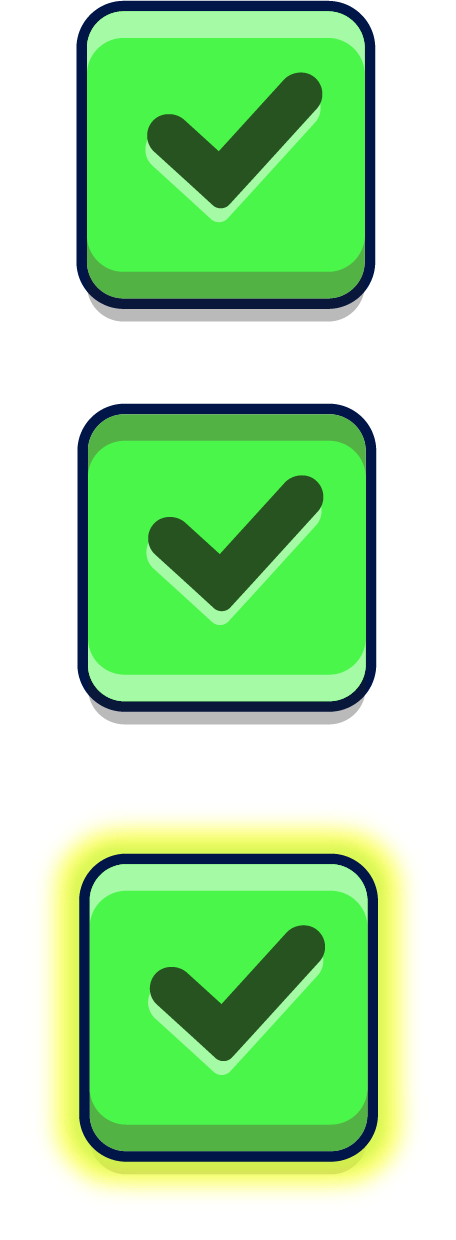
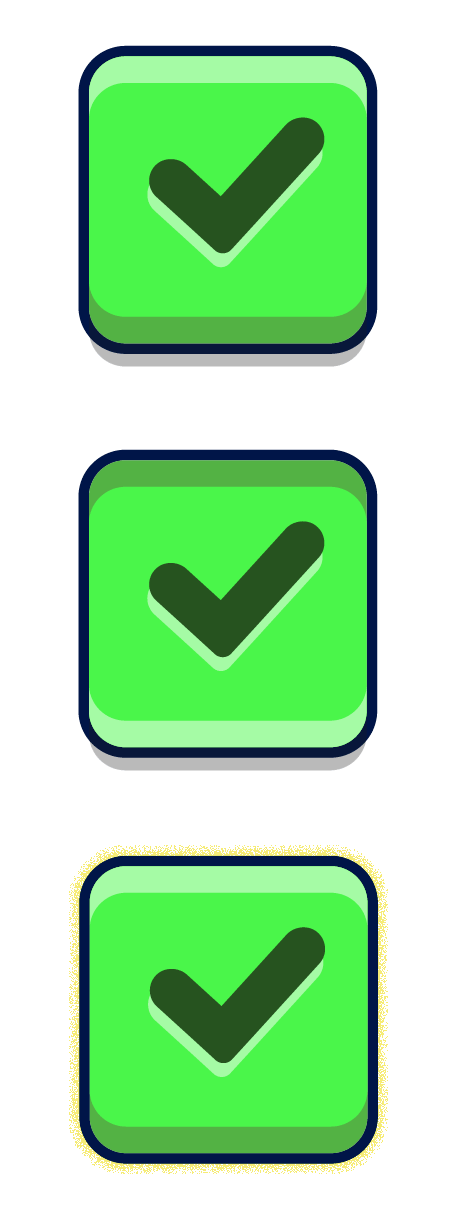
upadte: add game succful and fail

diff --git a/src/games/game_26/scenes/GameScene.js b/src/games/game_26/scenes/GameScene.js
@@ -5,9 +5,9 @@ import ExitButton from '../components/ExitProgressGameButton'
 import {
     createEggTwistingMachineAnimation
 } from '../assets/animations/EggTwistingMachineAnimation';
-// import {
-//     createGameStatusAnimations
-// } from '../assets/animations/GameStatusAnimation';
+import {
+    createStarAnimation
+} from '../assets/animations/StarAnimation';
 import GameSprite from '../components/GameSprite';
 import GameManager from '../components/GameManager';
 import AnswerArea from "../components/AnswerArea";
@@ -46,7 +46,7 @@ export default class GameScene extends BasicScene {
 
 
         createEggTwistingMachineAnimation(this.anims);
-
+        createStarAnimation(this.anims);
         this.paintGameScene(this);
 
 
@@ -65,7 +65,7 @@ export default class GameScene extends BasicScene {
 
         if (errorQuestionIndex == null) {
             this.questionIndex = GameManager.getInstance().generateGameQuestionIndex();
-            
+
         } else {
 
             if (JSON.parse(localStorage.getItem('gameChance'))) {
@@ -75,7 +75,7 @@ export default class GameScene extends BasicScene {
         }
 
         question = JSON.parse(localStorage.getItem(this.questionIndex));
-        console.log("当前抽取的题目:%o",question);
+        console.log("当前抽取的题目:%o", question);
         // question = JSON.parse(localStorage.getItem(8));
         this.currentQuestionAnswer = question.answer;
 
@@ -92,7 +92,7 @@ export default class GameScene extends BasicScene {
         let eggTwistingMachineAnimation = new GameSprite(this, 960, 540, 'eggTwistingMachineTexture');
         eggTwistingMachineAnimation.play('eggTwistingMachineAnimation');
 
-        let answerArea = new AnswerArea(this,this.generateQuestion());
+        let answerArea = new AnswerArea(this, this.generateQuestion());
 
         let exitButton = new ExitButton(this, 120, 135);
 
@@ -100,59 +100,41 @@ export default class GameScene extends BasicScene {
         this.gameLayer.add([exitButton]);
     }
 
-    paintGameSuccess(doll) {
+    paintGameSuccess() {
 
         GameManager.getInstance().updateGameQuestionNumberList(this.questionIndex);
         GameManager.getInstance().updateGamePlayTotal((value) => {
             this.time.addEvent({
-                delay: 2000,
+                delay: 1000,
                 callback: () => this.scene.start(value ? 'Game' : 'End')
             })
         });
 
-        let targetPosition = JSON.parse(localStorage.getItem('targetPosition'));
-        this.gameLayer.add(new GameSprite(this, targetPosition.x + doll.x, targetPosition.y + doll.y - 500, "gameSuccessAnimation"));
-        this.sound.add('starEffectSound').play();
+
+        // this.sound.add('starEffectSound').play();
     }
 
 
-    paintGameFailed(clipBox) {
+    paintGameFailed() {
 
-        let doll = clipBox.list[1];
-
-
-        let errorSprite = null;
         let _isFirstError = null;
-        let targetPosition = JSON.parse(localStorage.getItem('targetPosition'));
-
 
         GameManager.getInstance().setGameQuestionError(this.questionIndex, (isFirstError, value) => {
 
             _isFirstError = isFirstError;
             console.log({ isLastQuestion: value })
             this.time.addEvent({
-                delay: isFirstError ? 2000 : 5000,
+                delay: isFirstError ? 1000 : 2000,
                 callback: () => value ? this.scene.start('End') : this.scene.restart('Game')
             });
         }
         );
 
-        errorSprite = new GameSprite(this, targetPosition.x + doll.x, targetPosition.y + doll.y - 500, "gameFailAnimation")
+        console.log({ _isFirstError });
 
-        errorSprite.on('animationcomplete', () => {
-            if (!_isFirstError) {
-                this.time.addEvent({
-                    delay: 500,
-                    callback: () => {
+        // this.sound.add('electricShockEffectSound').play();
 
-                    }
-                })
-            }
-        })
 
-        this.sound.add('electricShockEffectSound').play();
-
-        this.gameLayer.add(errorSprite);
     }
 
 

diff --git a/src/games/game_26/components/AnswerPanel.js b/src/games/game_26/components/AnswerPanel.js
@@ -1,24 +1,26 @@
 import Phaser from 'phaser'
 import ConfirmButton from './ConfirmButton';
+import GameSprite from './GameSprite';
 import ResetButton from './ResetButton';
+
 
 export default class AnswerPanel extends Phaser.GameObjects.Container {
 
-    constructor(scene, x, y) {
+    constructor(scene, x, y, answer) {
 
         super(scene, x, y);
         scene.add.existing(this);
-
+        this._text = '';
         this.texture = scene.add.sprite(0, 0, 'backgroundLabelAnswer').setScale(0.5);
 
-        // console.log("texture: %o", this.texture.displayWidth);
-        this.confirmButton = new ConfirmButton(scene, 800, 15);
-        this.resetButton = new ResetButton(scene, 650, 0,'Game');
+
+
+        this.resetButton = new ResetButton(scene, 650, 0, 'Game');
         this.labelText = this.scene.make.text({
-            x: -this.texture.displayWidth/2,
+            x: -this.texture.displayWidth / 2 + 20,
             y: -10,
-            text: '大手大脚啊升级换代看撒娇卡上',
-            style:  {
+            text: this.text,
+            style: {
                 fontSize: '55px',
                 fontFamily: 'Arial',
                 // backgroundColor:'#fb022b',
@@ -30,13 +32,76 @@ export default class AnswerPanel extends Phaser.GameObjects.Container {
                     top: 20,
                     bottom: 10,
                 }
-    
+
             }
-        }).setOrigin(0,0.5);
+        }).setOrigin(0, 0.5).setName('labelText');
+        this.confirmButton = new ConfirmButton(scene, 800, 0, answer, this.labelText);
 
         this.setSize(this.texture.width, this.texture.height);
 
+        this.addOnConfirmButtonClickedEventListener(scene, this.confirmButton);
+
+
+
         this.add([this.texture, this.labelText, this.confirmButton, this.resetButton]);
 
+        // this.showStarAnimation(scene);
+
     }
+
+
+    setLabelText(value) {
+        this._text += value;
+        this.labelText.setText(this._text);
+    }
+
+    getLabelText() {
+        return this.labelText.text;
+    }
+
+    setConfirmButtonLight() {
+        this.confirmButton.showLight();
+    }
+
+    showStarAnimation(scene) {
+
+        let firstStarAnimation = new GameSprite(scene, this.labelText.x, this.labelText.y - this.texture.displayHeight / 2, 'starTexture');
+        firstStarAnimation.setScale(0.5);
+        firstStarAnimation.play('starAnimation');
+
+
+        let secondStarAnimation = new GameSprite(scene, this.labelText.x + this.labelText.displayWidth, this.labelText.y + this.texture.displayHeight / 2, 'starTexture');
+        secondStarAnimation.setScale(0.3);
+        secondStarAnimation.play('starAnimation');
+
+
+        this.add([firstStarAnimation, secondStarAnimation]);
+    }
+
+    showErrorAnimation(scene) {
+        let errorSprite =
+            new GameSprite(scene, this.labelText.x + this.labelText.displayWidth / 2, this.labelText.y, 'uiError');
+        errorSprite.setScale(0.8);
+
+        this.add(errorSprite);
+    }
+
+    addOnConfirmButtonClickedEventListener(scene, gameObject) {
+        gameObject.on('OnConfirmedEvent', (result) => {
+
+            if (result) {
+                scene.paintGameSuccess();
+                this.showStarAnimation(scene);
+
+            } else {
+                scene.paintGameFailed();
+                this.showErrorAnimation(scene);
+            }
+
+
+
+        })
+    }
+
+
 }

diff --git a/src/games/game_26/scenes/PreloaderScene.js b/src/games/game_26/scenes/PreloaderScene.js
@@ -48,6 +48,8 @@ export default class PreloaderScene extends BasicScene {
             'backgroundGamePlay': require('../assets/images/background_game_play_scene.png'),
             'gameEndDialogBox': require('../assets/images/background_game_end_dialog.png'),
 
+            'uiError':require('../assets/images/ui_error.png'),
+
             'questionPicture0': require('../assets/images/questionPictures/0.png'),
             'questionPicture1': require('../assets/images/questionPictures/1.png'),
             'questionPicture2': require('../assets/images/questionPictures/2.png'),
@@ -73,6 +75,9 @@ export default class PreloaderScene extends BasicScene {
         const atlasFiles = {
             'eggTwistingMachineTexture': {
                 img: require('../assets/atlas/atlas_egg_twisting_machine.png'), data: require('../assets/atlas/atlas_egg_twisting_machine.json')
+            },
+            'starTexture': {
+                img: require('../assets/atlas/atlas_star.png'), data: require('../assets/atlas/atlas_star.json')
             }
         }
 
@@ -87,7 +92,7 @@ export default class PreloaderScene extends BasicScene {
         this.load.spritesheet('gameProgressExitButton', require('../assets/images/button_exit_progress_game.png'), { frameWidth: 186, frameHeight: 209 });
         this.load.spritesheet('gameEndExitButton', require('../assets/images/button_game_end_exit.png'), { frameWidth: 410, frameHeight: 163.5 });
         this.load.spritesheet('resetButton', require('../assets/images/button_reset.png'), { frameWidth: 228, frameHeight: 241 });
-        this.load.spritesheet('confirmButton',require('../assets/images/button_confirm.png'),{frameWidth: 386, frameHeight: 384});
+        this.load.spritesheet('confirmButton',require('../assets/images/button_confirm.png'),{frameWidth: 456, frameHeight: 393});
 
         this.preloadFromArr({ img: imageFiles, atlas: atlasFiles, sound: soundFiles });
     }

diff --git a/src/games/game_26/components/AnswerArea.js b/src/games/game_26/components/AnswerArea.js
@@ -26,10 +26,10 @@ export default class AnswerArea extends Phaser.GameObjects.Container {
 
         scene.add.existing(this);
 
-        let answerPanel = new AnswerPanel(scene, 1000, 900);
+        let answerPanel = new AnswerPanel(scene, 1000, 900, question.answer);
         this.paintPhraseLabels(scene, question.preposition, question.phrases, this);
 
-        this.addOnClickedEventListener(this,answerPanel);
+        this.addOnPhraseClickedEventListener(this, answerPanel, question.answer);
 
         this.add[answerPanel];
     }
@@ -63,10 +63,15 @@ export default class AnswerArea extends Phaser.GameObjects.Container {
 
     }
 
-    addOnClickedEventListener(gameObject,answerPanel) {
+    addOnPhraseClickedEventListener(gameObject, answerPanel, answer) {
         gameObject.on('clickedEvent', (value) => {
-            console.log(value);
-            console.log({answerPanel});
+
+            answerPanel.setLabelText(value);
+            console.log("answerPanel:%s", answerPanel.getLabelText());
+
+            if (answerPanel.getLabelText().length == answer.length) {
+                answerPanel.setConfirmButtonLight();
+            }
         })
     }
 

diff --git a/src/games/game_26/components/ConfirmButton.js b/src/games/game_26/components/ConfirmButton.js
@@ -2,7 +2,7 @@ import Phaser from 'phaser'
 
 export default class ConfirmButton extends Phaser.GameObjects.Container {
 
-    constructor(scene, x, y) {
+    constructor(scene, x, y, correctAnswer, labelText) {
 
         super(scene, x, y);
         scene.add.existing(this);
@@ -24,7 +24,7 @@ export default class ConfirmButton extends Phaser.GameObjects.Container {
                 Phaser.Input.Events.GAMEOBJECT_POINTER_UP, () => {
                     console.log("up")
                     this.texture.setFrame(0);
-                    this.onUpClicked();
+                    this.onUpClicked(correctAnswer, labelText);
                 }
             )
     }
@@ -33,8 +33,20 @@ export default class ConfirmButton extends Phaser.GameObjects.Container {
 
     }
 
-    onUpClicked() {
-
+    onUpClicked(correctAnswer, labelText) {
+        console.log(this.checkAnswer(correctAnswer, labelText))
+        this.emit('OnConfirmedEvent',this.checkAnswer(correctAnswer, labelText));
     }
+
+    showLight() {
+        this.texture.setFrame(2);
+    }
+
+
+    checkAnswer(correctAnswer, labelText) {
+        return correctAnswer == labelText.text;
+    }
+
+
 
 }

diff --git a/src/games/game_26/assets/animations/StarAnimation.js b/src/games/game_26/assets/animations/StarAnimation.js
@@ -1,0 +1,14 @@
+
+/**
+        * 
+        * @param {Phaser.Animations.AnimationManager} anims 
+        */
+export const createStarAnimation = (anims) => {
+    anims.create({
+        key: 'starAnimation',
+        delay: 200,
+        frames: anims.generateFrameNames('starTexture', { prefix: 'star_', start: 0, end: 14, zeroPad: 4 }),
+        frameRate: 24,
+        repeat: -1
+    });
+}

diff --git a/src/games/game_26/components/GameAnswerEvent.js b/src/games/game_26/components/GameAnswerEvent.js
@@ -1,0 +1,18 @@
+export default class GameAnswerEvent {
+
+    constructor() {
+
+    }
+
+    addListener(callback) {
+        this.on("gameAnswerEvent", (value)=>{
+            callback(value);
+        })
+    }
+
+    PublishEvent(value) {
+        this.emit('gameAnswerEvent', value);
+    }
+
+
+}

diff --git a/src/games/game_26/components/PrepositionLabelBox.js b/src/games/game_26/components/PrepositionLabelBox.js
@@ -15,6 +15,7 @@ export default class PrepositionLabelBox extends Label {
 
     onDownClicked() {
         this.gameObject.emit('clickedEvent', this.phrase);
+        this.setVisible(false);
     }
 
     onUpClicked() {

diff --git a/src/games/game_26/components/PhraseLabelBox.js b/src/games/game_26/components/PhraseLabelBox.js
@@ -16,6 +16,7 @@ export default class PhraseLabelBox extends Label {
 
     onDownClicked() {
         this.gameObject.emit('clickedEvent', this.phrase);
+        this.setVisible(false);
     }
 
     onUpClicked() {
